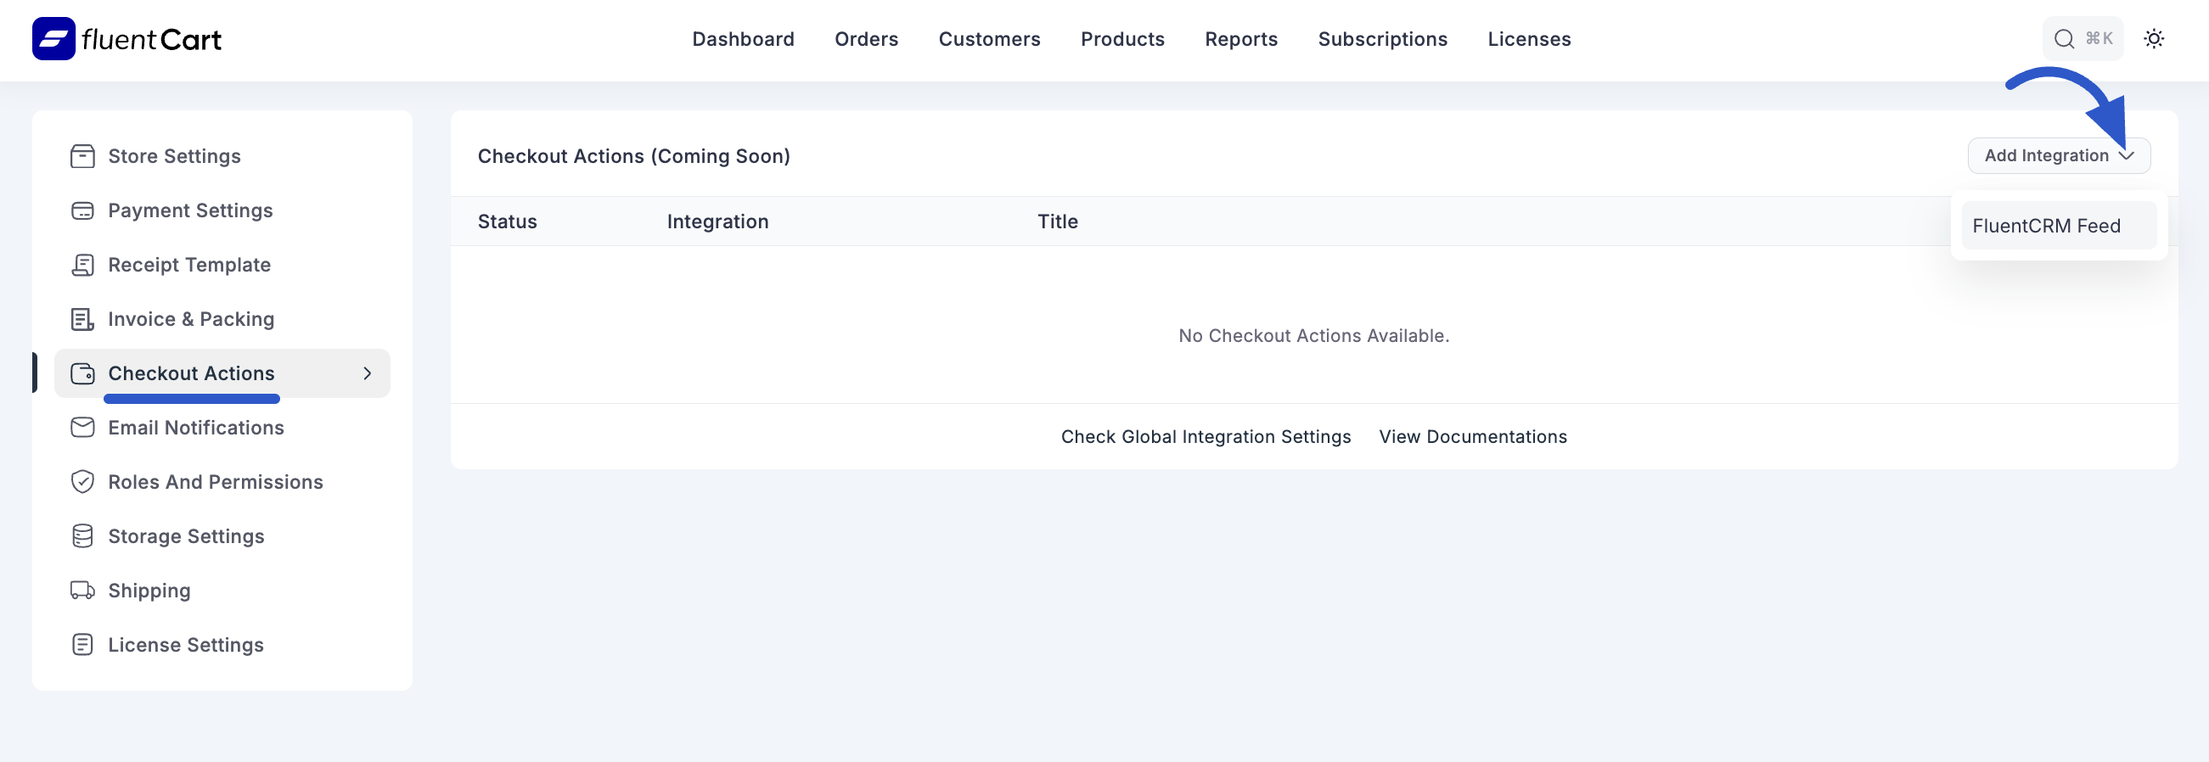
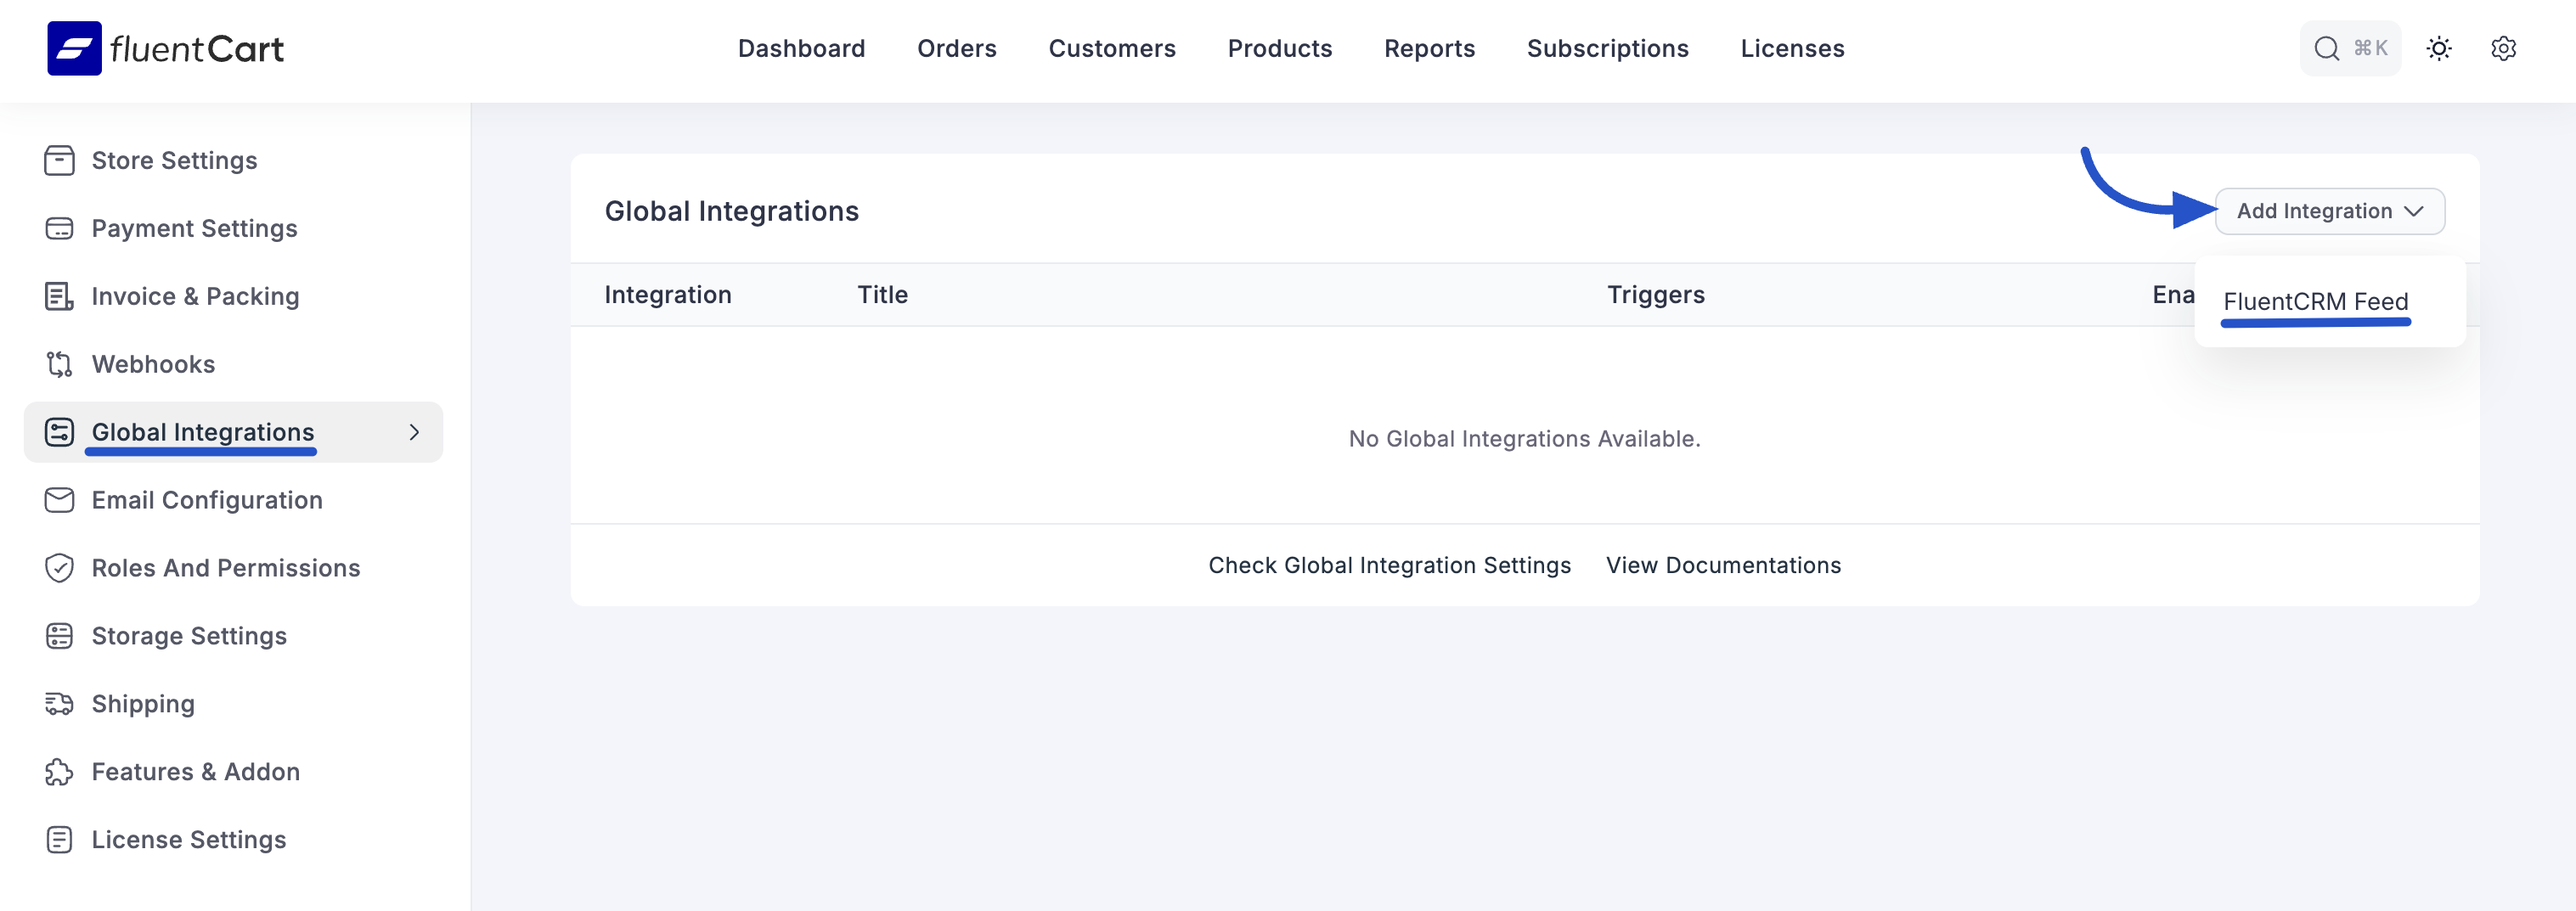
Doc Updated
Integration
Marketing and Sales Tools (Checked ok)
Customer Dashboard (Checked ok)
Shipping (Checked ok)
Payment (Checked ok)

diff --git a/guide/Integrations/fluentcrm-integration.md b/guide/Integrations/fluentcrm-integration.md
@@ -1,76 +1,59 @@
-# Integrating with FluentCRM
+# FluentCRM Integration
 
-FluentCart seamlessly integrates with FluentCRM, allowing you to create powerful marketing automations that are triggered by customer purchases. By connecting your store to FluentCRM, you can automatically add new customers to specific lists, apply tags based on what they buy, and enrich their contact profiles without any manual work.
+FluentCart seamlessly integrates with FluentCRM, allowing you to create powerful marketing automations that are triggered by customer purchases. By connecting your store, you can automatically add new customers to specific lists, apply tags based on what they buy, and enrich their contact profiles without any manual work.
 
-This integration is handled through FluentCart's **Checkout Actions** feature. This guide will walk you through the process of setting up a new feed to connect a checkout event to FluentCRM.
+FluentCart offers two powerful ways to connect with FluentCRM: **Global Integrations**, which apply to every purchase (ideal for adding all customers to a main newsletter), and [**Product Integrations**](/guide/product-types-creation/managing-product-integrations.md), which are triggered only by specific items (perfect for adding a student to a course-specific list).
 
-#### Step 1: Navigate to Checkout Actions
+This guide will walk you through setting up both types of integrations.
 
-To begin, you need to access the main Checkout Actions screen.
+### When to Use Each Integration Type
+
+Before you begin, it's helpful to decide which type of integration best suits your goal:
+
+* **Use a Global Integration when:** You want an action to apply to *every single customer*, regardless of what they buy.
+    * *Example:* Adding all paying customers to your main "Newsletter" list.
+* **Use a Product Integration when:** You want an action to apply *only to customers who buy a specific item*. To learn more about setting up these powerful, product-specific automations, please follow our detailed [documentation](/guide/product-types-creation/managing-product-integrations.md).
+    * *Example:* Adding customers who bought your "Advanced SEO Course" to a "Course Students" list and tagging them accordingly.
+
+
+### Global Integration (For All Products)
+
+A global integration is perfect for general marketing tasks that should apply to all your customers, such as adding every new buyer to your main newsletter list or applying a general "Customer" tag.
+
+#### Navigating to Global Integrations
 
 1.  From your WordPress dashboard, navigate to **FluentCart Pro > Settings**.
-2.  Once you're there, look for the **Checkout Actions** tab on the left side menu. Click it, and then hit the **Configure Modules** button.
+2.  Click on the **Global Integrations** tab.
 
-  ![Screenshot of Fluentcrm Integration pricing Page](/guide/public/images/Integrations/fluentcrm/checkout-actions-fluentcart.png)
+#### Creating a New FluentCRM Feed
 
-Now, you'll see options for different tools you can connect. If you haven't added FluentCRM yet, click the **Install FluentCRM** button. But if you already have FluentCRM on your site and it's ready to go, just click the **Manage** button next to it instead.
+1.  On the Global Integrations dashboard, click the **Add Integration** button at the top right.
+2.  Select **FluentCRM Feed** from the dropdown menu. This will take you to the configuration screen.
 
-  ![Screenshot of Fluentcrm Integration pricing Page](/guide/public/images/Integrations/fluentcrm/install-fluentCrm.png)
+  ![Screenshot of Fluentcrm Integration Page](/guide/public/images/Integrations/fluentcrm/add-integration.png)
 
-#### Step 2: Create a New FluentCRM Feed
+#### Configuring the Global Feed
 
-1.  On the Checkout Actions screen, click the **Add Integration** button at the top right.
-2.  Select **FluentCRM Feed** from the dropdown menu. This will take you to the configuration screen for the new feed.
+This screen allows you to define exactly what happens in FluentCRM when any order is placed in your store.
 
-  ![Screenshot of Fluentcrm Integration pricing Page](/guide/public/images/Integrations/fluentcrm/install-fluentCrm.png)
+* **Name:** Give your feed a descriptive name for your own internal reference (e.g., "Add All New Customers to Main List"). This helps you easily identify the automation later.
+* **FluentCRM Lists:** Select the FluentCRM list(s) where you want to add your new contacts. You can select one or more lists.
+* **Contact Tags:** Select the FluentCRM tag(s) you want to apply to all new customers. This is a great way to segment all your buyers for future marketing campaigns.
+* **Other Fields:** This powerful feature allows you to map additional data from the order to custom fields in FluentCRM. For each, provide a **Field Label** (the name of the custom field in FluentCRM) and select the corresponding FluentCart **Field Value** (shortcode) to sync the data.
+    * Example: To save the customer's city, you could set the Field Label to 'City' and select the Field Value '{order.billing.city}'. This will automatically populate the 'City' custom field in the FluentCRM contact profile with the data from the order.*
+* **Note:** Add a note that will be attached to the contact's profile in FluentCRM. You can use shortcodes here to make the note dynamic and personalized.
+* **Enable Double Opt-in:** It is highly recommended to keep this enabled. It sends a confirmation email to the user before they become an active subscriber, which is a best practice for GDPR compliance and maintaining a healthy, engaged email list.
+* **Enable ReSubscription:** If enabled, this will resubscribe a contact if they had previously unsubscribed from your list. Use this option with caution to ensure you respect your customers' choices.
+* **Event Trigger:** Select the specific store event that will trigger this automation. For most use cases, "Order Completed / Paid" is the best option, as it ensures only paying customers are added to your CRM.
+* **Enable This Feed:** Ensure the toggle at the top right is switched on to make the automation active. If it is disabled, the feed will be saved but will not run.
 
-#### Step 3: Configure the Feed Settings
+  ![Screenshot of Fluentcrm Integration Feed Page](/guide/public/images/Integrations/fluentcrm/fluentcrm-integration-feed.png)
 
-This screen is divided into several sections that allow you to define exactly what happens in FluentCRM when a customer checks out.
+Once configured, click the **Create FluentCRM Feed** button. This global automation is now live and will run for every order in your store.
 
-**1. Basic Information**
+### Combining Global and Product Integrations
 
-* **Name:** Give your automation a descriptive name for internal reference.
-* **List:** From the dropdown, select the target FluentCRM list where you want to add the new contacts.
-
-**2. Map Fields**
-
-This is where you connect the customer data collected during checkout to the corresponding fields in the FluentCRM contact profile. By default, you can map the following essential fields:
-
-* **Email Address:** This is the most critical field. You map this to the customer's email collected during checkout. It serves as the unique identifier for the contact in FluentCRM.
-* **First Name:** This maps the customer's first name from the checkout form to the "First Name" field in their FluentCRM profile, allowing for personalized communication.
-* **Last Name:** This maps the customer's last name from the checkout form to the "Last Name" field in their FluentCRM profile.
-
-:::tip Select button dropdown
-The **Select** button dropdown next to each field allows you to choose the corresponding shortcode. These shortcodes pull data directly from the customer's order and are organized into helpful categories like "Customer," "Payments," and "General." For example, to map the customer's email, you would choose **Email Address** from the "Customer" category, which inserts the `{order.billing_email}` shortcode.
-:::
-
-  ![Screenshot of Fluentcrm Integration Page](/guide/public/images/Integrations/fluentcrm/fluentcrm-integration-feed.png)
-
-**3. Additional Information**
-
-This section provides more advanced options for organizing and managing your new contacts.
-
-* **Other Fields:** Click the **plus icon (+)** to map additional data. For each, provide a **Field Label** in FluentCRM and select the corresponding FluentCart **Field Value** from the dropdown.
-* **Tags:** Apply one or more tags to the contact. For more advanced segmentation, check the **Enable Dynamic Tag Inputs** box to apply tags only when specific conditions are met.
-    * **Select the Tag:** Choose the tag you want to apply from the dropdown menu.
-    * **Set the Condition:** Create a rule that must be met for the tag to be applied.
-        * **If:** Select a data point (shortcode) from the dropdown, such as `{order.billing.city}`.
-        * **Operator:** Choose a logical operator.
-        * **Value:** Enter the value to check against.
-    * **Add More Conditions:** Click the **plus icon (+)** to add another rule. The tag will only be applied if *all* conditions are met.
-* **Note:** Add a static note that will be attached to the contact's profile in FluentCRM.
-* **Double Opt-in:** Enable this to send a confirmation email to the user before they become an active subscriber on your list.
-* **ReSubscribe:** If enabled, this will resubscribe a contact if they had previously unsubscribed from your list.
-* **VIP:** Enable this to automatically mark the new contact as a VIP in FluentCRM.
-
-**4. Finalize the Feed**
-
-Before saving, you must set the status of your new automation.
-
-* **Status:** Ensure the **Enable This feed** checkbox is checked to make the automation active. Unless your automation will be inactive.t
-
-Once all fields are configured, click the **Create FluentCRM Feed** button at the bottom of the page. Your integration is now live, and FluentCart will automatically send customer data to FluentCRM after every completed checkout.
+By combining both Global and Product-specific integrations, you can create a sophisticated marketing automation strategy. Use global feeds for general onboarding and product feeds for highly targeted, post-purchase follow-ups that enhance the customer experience.
 
 ### Use Case Example: Segmenting Customers by Location
 

diff --git a/guide/shipping/understanding-shipping-classes.md b/guide/shipping/understanding-shipping-classes.md
@@ -29,10 +29,12 @@ This guide explains how to use Shipping Classes to group products with similar s
     * **Cost Type**: This defines how the "Cost Adjustment" is applied:
         * **Percentage**: The "Cost Adjustment" will be applied by percentage.
         * **Fixed Amount**: The "Cost Adjustment" will be applied by a fix amount.
-     * **Per Item**: Select this checkbox if you want the class to add per item charge if the buyer has multiple item of this product in the cart.
+     * **Apply to Qunatity**: Select this checkbox if you want the class to add per item charge if the buyer has multiple item of this product in the cart.
 
 4.  **Save the Shipping Class**:
     * Click the **"Save"** or **"Add Class"** button.
+
+     ![Screenshot of Shipping Classes](/guide/public/images/shipping/understanding-shipping-classes/shipping-classes-2.png)
 
 ## Assigning Shipping Classes to Products
 
@@ -49,9 +51,6 @@ Once you have created your shipping classes, you need to assign them to your pro
 
 3.  **Update Product**:
     * Save your product to apply the assigned shipping class.
-
-
- ![Screenshot of Shipping Classes](/guide/public/images/shipping/understanding-shipping-classes/shipping-classes-2.png)
 
 
 **Important Notes**:
